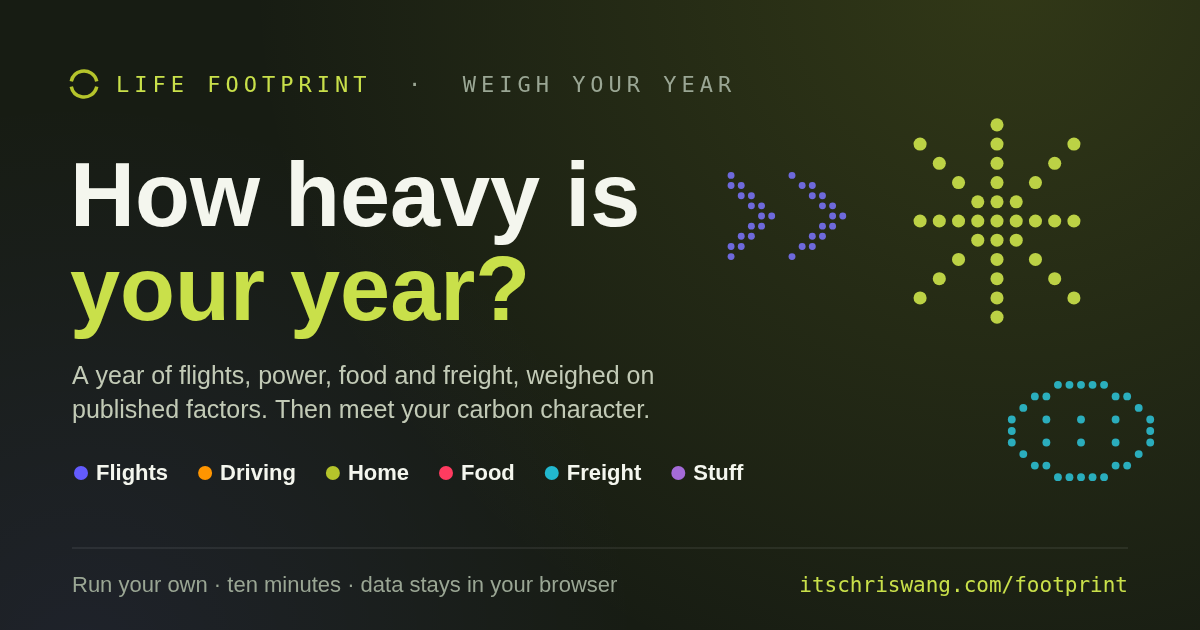
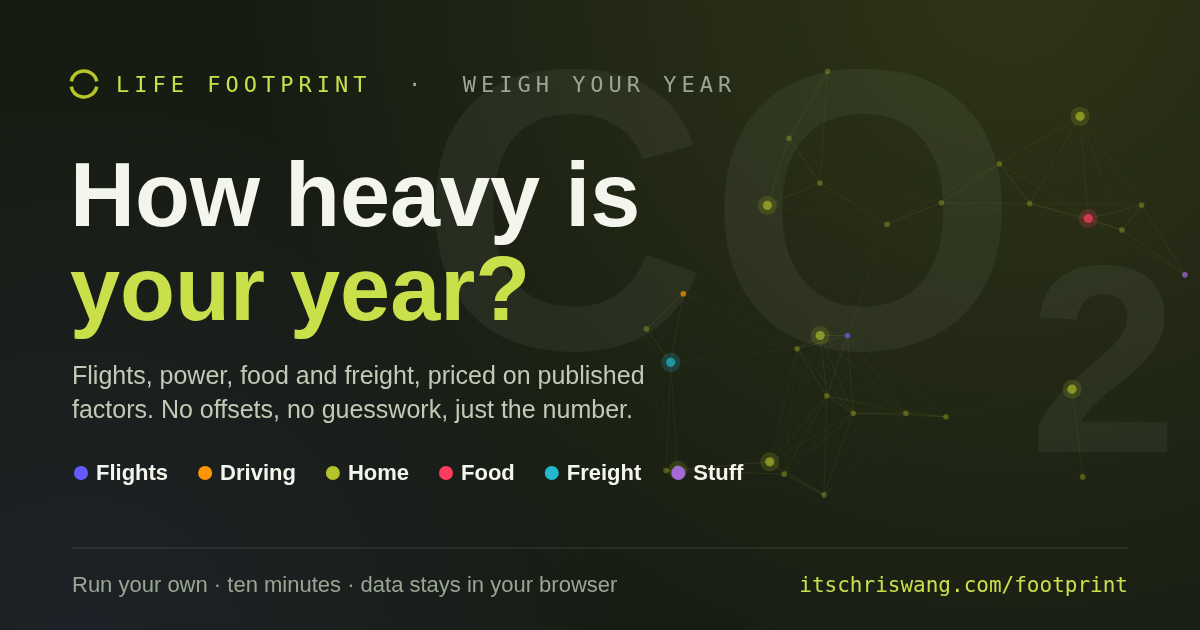
Rework footprint thumbnail: CO2 backdrop, dotted mesh, clearer copy
Iterate on the share card from review:
- Bring back the large faint CO2 monogram behind the content, as on the
  original card.
- Replace the carbon-character dot emblems with a subtle dotted mesh
  network (the dot-and-line motif used across the site), a few nodes
  tinted with the category accents.
- Rewrite the supporting line so it reads on its own: "Flights, power,
  food and freight, priced on published factors. No offsets, no
  guesswork, just the number." (drops the "meet your carbon character"
  line, which meant nothing before opening the page).
- Update og:image:alt to match.

diff --git a/footprint/index.html b/footprint/index.html
@@ -18,7 +18,7 @@
   <meta property="og:image" content="https://itschriswang.com/og-footprint.png">
   <meta property="og:image:width" content="1200">
   <meta property="og:image:height" content="630">
-  <meta property="og:image:alt" content="Life Footprint: how heavy is your year? A ten-minute personal carbon audit that weighs flights, driving, home, food, freight and stuff on published factors, then matches you to a carbon character. Data stays in your browser.">
+  <meta property="og:image:alt" content="Life Footprint: how heavy is your year? A ten-minute personal carbon audit that weighs flights, driving, home, food, freight and stuff on published factors, with no offsets. Data stays in your browser.">
   <meta property="og:locale" content="en_AU">
   <meta name="twitter:card" content="summary_large_image">
   <meta name="twitter:title" content="Your Carbon Footprint | Chris Wang">
